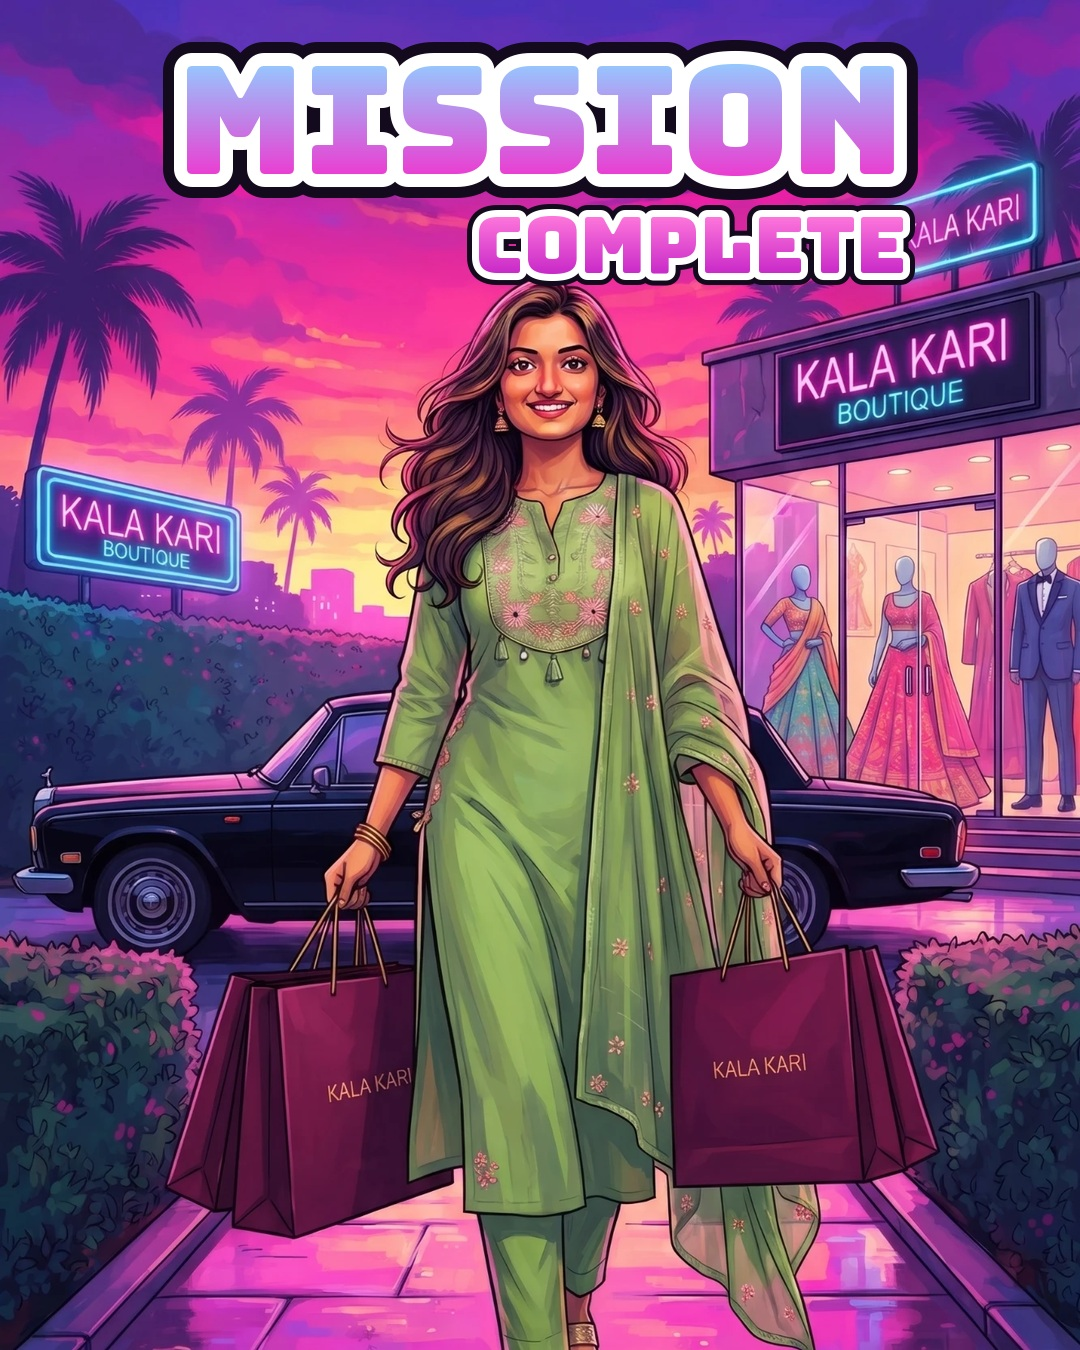
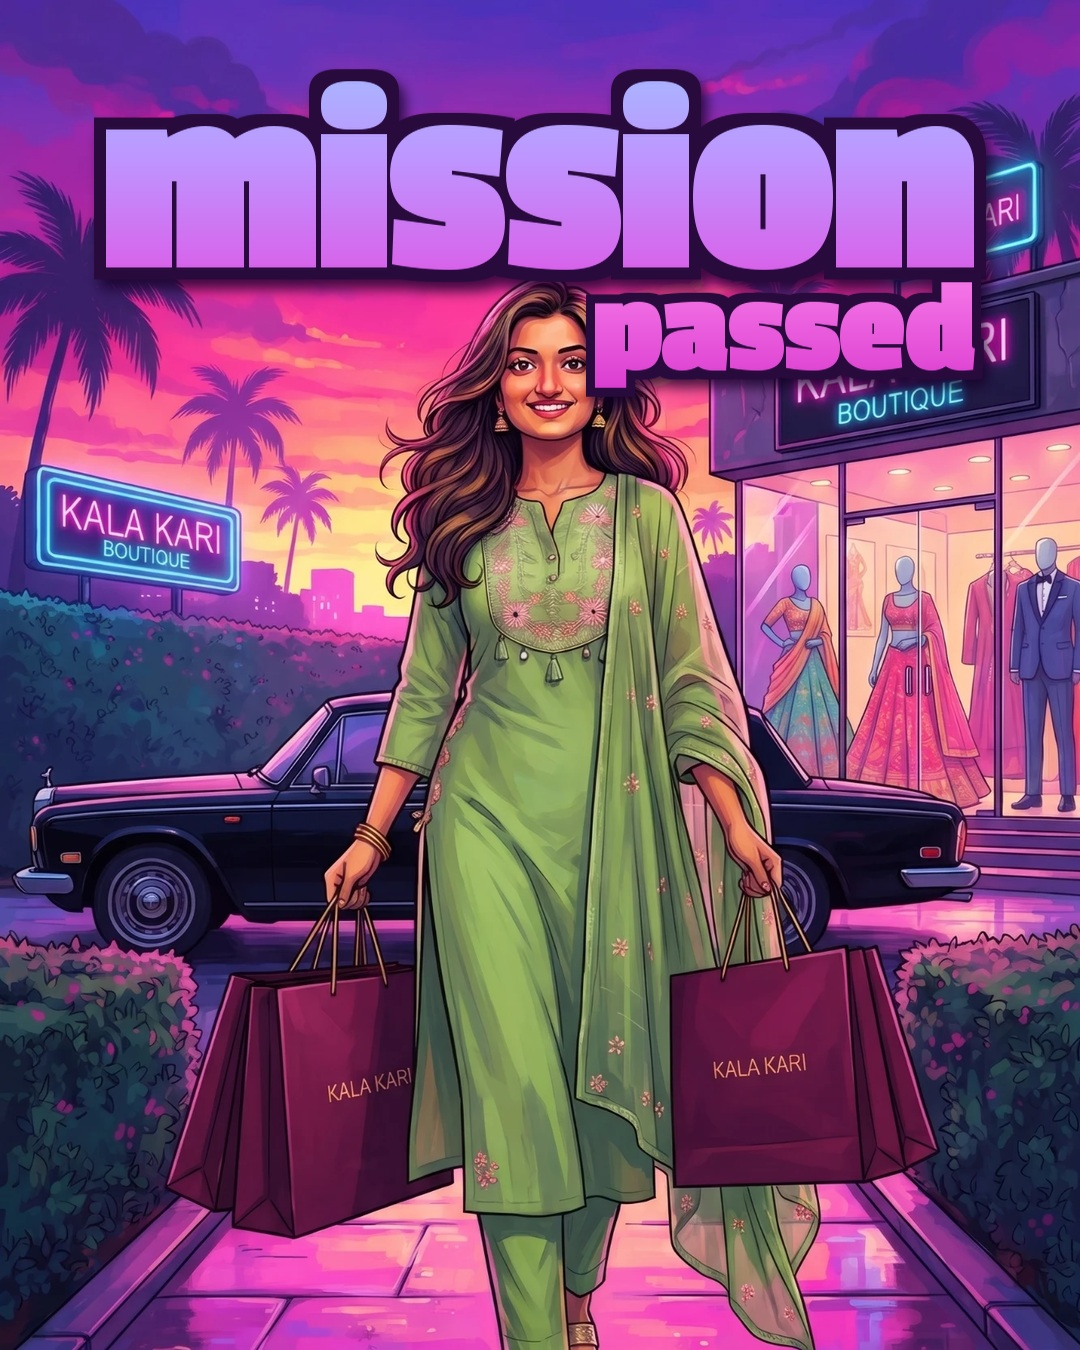
Most Wanted Fits: rebuild cover and slide 4 to match the reference's type and layout
Claude-Session: https://claude.ai/code/session_01LZv7UTnsZcwjx4RXmrtg3u

Changed region(s): [[0.0611, 0.0311, 0.9472, 0.3111]]

diff --git a/marketing/posts/most_wanted_fits_carousel.py b/marketing/posts/most_wanted_fits_carousel.py
@@ -1,9 +1,11 @@
 #!/usr/bin/env python3
 """4-slide 4:5 "Most Wanted Fits" carousel: neon-sunset, game-cover style illustrations of three looks.
 
-1. Cover: the three illustrations as diagonal panels split by black bars, with a sunset badge in the middle and a
-   chunky white "MOST WANTED FITS" title outlined in black and hot pink. (An original title treatment: no game logo.)
-2. Denim Paisley co-ord.  3. Folk-Art Mustard co-ord.  4. Green Jaipuri suit with "MISSION COMPLETE" at the top.
+1. Cover: five diagonal panels cut from the illustrations, split by thick black borders; a sunset-filled "KK"
+   monogram badge; and "most / wanted / fits" stacked in a heavy condensed lowercase face, white with a black
+   outline and a red-pink rim.
+2. Denim Paisley co-ord.  3. Folk-Art Mustard co-ord.
+4. Green Jaipuri suit with "mission" (blue-violet-magenta gradient) and a smaller "passed" under it on the right.
 The Gemini sparkle mark in each illustration's bottom-right corner is inpainted out.
 
 Usage:
@@ -43,74 +45,122 @@ def fit(im, w, h, fy=0.5):
     return im.crop((x, y, x + w, y + h))
 
 
-def outlined(lay, xy, text, size, fill=(255, 255, 255), inner=(15, 10, 20), outer=PINK, anchor="mm", grad=None):
-    """Chunky title text: a hot-pink outer stroke, a black inner stroke, a white or gradient face."""
-    f = ImageFont.truetype(BUNGEE, size)
-    d = ImageDraw.Draw(lay)
-    d.text(xy, text, font=f, fill=outer + (255,), anchor=anchor, stroke_width=int(size * 0.16), stroke_fill=outer + (255,))
-    d.text(xy, text, font=f, fill=inner + (255,), anchor=anchor, stroke_width=int(size * 0.09), stroke_fill=inner + (255,))
-    if grad is None:
-        d.text(xy, text, font=f, fill=fill + (255,), anchor=anchor)
-        return
-    # gradient face: draw the glyphs as a mask and fill it with a vertical gradient
-    m = Image.new("L", lay.size, 0)
-    ImageDraw.Draw(m).text(xy, text, font=f, fill=255, anchor=anchor)
-    bb = m.getbbox()
-    g = Image.new("RGBA", lay.size, (0, 0, 0, 0))
-    gd = ImageDraw.Draw(g)
-    for y in range(bb[1], bb[3] + 1):
-        t = (y - bb[1]) / max(1, bb[3] - bb[1])
-        c = tuple(int(grad[0][k] * (1 - t) + grad[1][k] * t) for k in range(3))
-        gd.line([(bb[0], y), (bb[2], y)], fill=c + (255,))
-    lay.paste(g, (0, 0), m)
+PASSION = os.path.join(FONTS, "fontsource-passion-one", "package", "files", "passion-one-latin-900-normal.woff2")
+
+
+def word_layer(text, size, stretch=1.18):
+    """A word in the heavy condensed display face, stretched taller like the reference's title type.
+    Returns (glyph mask, offset) on a padded canvas."""
+    f = ImageFont.truetype(PASSION, size)
+    bb = f.getbbox(text)
+    pad = int(size * 0.3)
+    m = Image.new("L", (bb[2] - bb[0] + 2 * pad, bb[3] - bb[1] + 2 * pad), 0)
+    ImageDraw.Draw(m).text((pad - bb[0], pad - bb[1]), text, font=f, fill=255)
+    return m.resize((m.width, int(m.height * stretch)), Image.LANCZOS)
+
+
+def stroke(mask, px):
+    return mask.filter(ImageFilter.MaxFilter(px * 2 + 1)) if px > 0 else mask
+
+
+def stamp(canvas, mask, cx, cy, face, rims, shadow=(0, 0, 0, 150), shadow_off=(8, 12)):
+    """Composite a word: drop shadow, then rims (outermost first), then the face (a colour or an RGBA image)."""
+    x, y = int(cx - mask.width / 2), int(cy - mask.height / 2)
+    outer = stroke(mask, rims[0][1])
+    sh = Image.new("RGBA", mask.size, shadow)
+    sh.putalpha(outer.filter(ImageFilter.GaussianBlur(6)).point(lambda v: int(v * shadow[3] / 255)))
+    canvas.alpha_composite(sh, (x + shadow_off[0], y + shadow_off[1]))
+    for col, px in rims:
+        lay = Image.new("RGBA", mask.size, col + (255,))
+        lay.putalpha(stroke(mask, px))
+        canvas.alpha_composite(lay, (x, y))
+    if isinstance(face, Image.Image):
+        lay = face.resize(mask.size).convert("RGBA")
+    else:
+        lay = Image.new("RGBA", mask.size, face + (255,))
+    lay.putalpha(mask)
+    canvas.alpha_composite(lay, (x, y))
+
+
+def vgrad(size, stops):
+    w, h = size
+    t = np.linspace(0, 1, h)[:, None]
+    pos = np.array([p for p, _ in stops])
+    cols = np.array([c for _, c in stops], float)
+    out = np.stack([np.interp(t[:, 0], pos, cols[:, k]) for k in range(3)], -1)
+    return Image.fromarray(np.repeat(out[:, None, :], w, 1).astype(np.uint8))
+
+
+def sunset_scene(w, h):
+    """Sunset fill for the badge letters: gradient sky, a striped sun, a skyline and palm silhouettes."""
+    im = vgrad((w, h), [(0, (255, 70, 150)), (0.45, (255, 120, 90)), (0.75, (255, 190, 80)), (1, (255, 225, 120))])
+    d = ImageDraw.Draw(im)
+    r = w * 0.2
+    d.ellipse((w / 2 - r, h * 0.42 - r, w / 2 + r, h * 0.42 + r), fill=(255, 225, 110))
+    for k in range(5):
+        y = h * 0.47 + k * h * 0.045
+        d.rectangle((0, y, w, y + 3 + k * 2), fill=(255, 110, 120))
+    rng = np.random.default_rng(4)
+    x = 0
+    while x < w:                                       # skyline
+        bw, bh = rng.uniform(w * 0.03, w * 0.06), rng.uniform(h * 0.05, h * 0.16)
+        d.rectangle((x, h * 0.84 - bh, x + bw, h), fill=(150, 40, 110))
+        x += bw * rng.uniform(0.8, 1.2)
+    d.rectangle((0, h * 0.84, w, h), fill=(110, 30, 90))
+    for px, ph, lean in ((w * 0.12, h * 0.72, 0.06), (w * 0.88, h * 0.75, -0.06), (w * 0.36, h * 0.5, 0.04), (w * 0.64, h * 0.55, -0.04)):
+        base = (px, h)
+        top = (px + lean * w, h - ph)
+        d.line([base, top], fill=(60, 15, 60), width=max(4, int(w * 0.012)))
+        L = w * 0.15
+        # tapered fronds fanning out to the sides and drooping under their own weight
+        for vx, vy in ((-1, -0.45), (-1, 0.05), (-0.45, -0.9), (1, -0.45), (1, 0.05), (0.45, -0.9), (0.05, -1)):
+            n = math.hypot(vx, vy)
+            vx, vy = vx / n, vy / n
+            spine = [(top[0] + vx * L * t, top[1] + vy * L * t + L * 0.6 * t * t) for t in np.linspace(0, 1, 14)]
+            left, right = [], []
+            for j, (x, y) in enumerate(spine):
+                t = j / 13
+                wdt = L * 0.11 * math.sin(math.pi * min(1, t * 1.1)) + 1
+                nx, ny = -vy, vx
+                left.append((x + nx * wdt, y + ny * wdt))
+                right.append((x - nx * wdt, y - ny * wdt))
+            d.polygon(left + right[::-1], fill=(60, 15, 60))
+    return im
 
 
 def cover(den, mus, grn):
-    im = Image.new("RGB", (W, H), (10, 8, 14))
-    # three panels split by diagonal lines: top-left (denim), right (green), bottom-left (mustard). Each
-    # illustration is scaled and shifted so its figure sits in its panel: (image, scale, dx, dy, polygon)
+    im = fit(grn, W, H)
+    # panels in paint order: (image, scale, dx, dy, polygon); each image is placed so its subject sits in its panel
     panels = [
-        (den, 0.80, -520, -150, [(0, 0), (720, 0), (330, H * 0.62), (0, H * 0.70)]),
-        (grn, 0.70, 380, -10, [(720, 0), (W, 0), (W, H), (560, H), (330, H * 0.62)]),
-        (mus, 0.62, -380, 830, [(0, H * 0.70), (330, H * 0.62), (560, H), (0, H)]),
+        (grn, 0.72, 400, 150, [(432, 520), (1080, 380), (1080, 1350), (700, 1350), (560, 900)]),
+        (den, 0.75, -520, -150, [(0, 0), (640, 0), (432, 520), (300, 860), (0, 760)]),
+        (mus, 0.60, 230, -70, [(640, 0), (1080, 0), (1080, 380), (432, 520)]),
+        (den, 0.70, -990, 235, [(0, 760), (300, 860), (430, 1350), (0, 1350)]),
+        (mus, 0.70, 470, 700, [(300, 860), (560, 900), (700, 1350), (430, 1350)]),
     ]
+    edges = []
     for src, sc, dx, dy, poly in panels:
         big = src.resize((round(src.width * sc), round(src.height * sc)), Image.LANCZOS)
-        layer = fit(src, W, H)                    # filler behind, in case the scaled image doesn't cover the panel
+        layer = fit(src, W, H)
         layer.paste(big, (dx, dy))
         m = Image.new("L", (W, H), 0)
         ImageDraw.Draw(m).polygon(poly, fill=255)
         im.paste(layer, (0, 0), m)
+        edges.append(poly)
     d = ImageDraw.Draw(im)
-    for a, b in (((720, 0), (330, H * 0.62)), ((330, H * 0.62), (0, H * 0.70)), ((330, H * 0.62), (560, H))):
-        d.line([a, b], fill=(10, 8, 14), width=16)
-    # the sunset badge behind the title: a slanted shield with a sun, stripes and palms
-    lay = Image.new("RGBA", (W, H), (0, 0, 0, 0))
-    bx0, by0, bx1, by1 = 250, 430, 830, 960
-    badge = Image.new("RGBA", (W, H), (0, 0, 0, 0))
-    bd = ImageDraw.Draw(badge)
-    for y in range(by0, by1):
-        t = (y - by0) / (by1 - by0)
-        c = (int(250 - 40 * t), int(80 + 110 * t), int(150 - 100 * t))
-        bd.line([(bx0, y), (bx1, y)], fill=c + (255,))
-    bd.ellipse((W / 2 - 150, by0 + 40, W / 2 + 150, by0 + 340), fill=(255, 214, 90, 255))
-    for k in range(5):
-        y = by0 + 220 + k * 22
-        bd.rectangle((bx0, y, bx1, y + 8 + k), fill=(236, 90, 130, 255))
-    shield = Image.new("L", (W, H), 0)
-    ImageDraw.Draw(shield).polygon([(bx0 + 30, by0), (bx1, by0 - 20), (bx1 - 30, by1), (bx0, by1 + 20)], fill=255)
-    stroke = shield.filter(ImageFilter.MaxFilter(25))
-    lay.paste(Image.new("RGBA", (W, H), (10, 8, 14, 255)), (0, 0), stroke)
-    lay.paste(badge, (0, 0), shield)
+    on_edge = lambda p: p[0] in (0, W) or p[1] in (0, H)
+    for poly in edges:                                # thick black borders between panels (not round the slide)
+        for a, b in zip(poly, poly[1:] + poly[:1]):
+            if not (on_edge(a) and on_edge(b)):
+                d.line([a, b], fill=(8, 6, 10), width=18)
     im = im.convert("RGBA")
-    im.alpha_composite(lay)
-    t = Image.new("RGBA", (W, H), (0, 0, 0, 0))
-    for word, y, s in (("MOST", 560, 150), ("WANTED", 700, 132), ("FITS", 840, 150)):
-        outlined(t, (W / 2, y), word, s)
-    sh = Image.new("RGBA", (W, H), (0, 0, 0, 0))
-    sh.putalpha(t.getchannel("A").filter(ImageFilter.GaussianBlur(10)).point(lambda v: int(v * 0.6)))
-    im.alpha_composite(sh, (6, 10))
-    im.alpha_composite(t)
+    # the badge: our KK monogram letters filled with a sunset scene, outlined in black and hot pink
+    kk = word_layer("KK", 470, 1.12)
+    scene = sunset_scene(kk.width, kk.height)
+    stamp(im, kk, W / 2, 445, scene, [((232, 40, 110), 16), ((8, 6, 10), 11)])
+    # title: white, black outline, a thin red-pink rim, stacked and overlapping like the reference
+    for text, size, cy in (("most", 205, 660), ("wanted", 205, 810), ("fits", 205, 960)):
+        stamp(im, word_layer(text, size), W / 2, cy, (255, 255, 255), [((226, 34, 74), 17), ((8, 6, 10), 12)])
     return im.convert("RGB")
 
 
@@ -124,12 +174,13 @@ def main():
     fit(den, W, H).save(os.path.join(out, "slide-2.jpg"), quality=94)
     fit(mus, W, H).save(os.path.join(out, "slide-3.jpg"), quality=94)
     s4 = fit(grn, W, H, 0.07).convert("RGBA")
-    t = Image.new("RGBA", (W, H), (0, 0, 0, 0))
-    outlined(t, (W / 2, 120), "MISSION", 150, grad=((150, 200, 255), (236, 60, 210)), outer=(20, 10, 30),
-             inner=(255, 255, 255))
-    outlined(t, (W / 2 + 150, 245), "COMPLETE", 78, grad=((255, 120, 220), (200, 40, 200)), outer=(20, 10, 30),
-             inner=(255, 255, 255))
-    s4.alpha_composite(t)
+    m1 = word_layer("mission", 250, 1.15)
+    stamp(s4, m1, W / 2, 175, vgrad(m1.size, [(0, (150, 210, 255)), (0.45, (190, 150, 255)), (1, (236, 60, 220))]),
+          [((40, 10, 60), 12)], shadow=(20, 0, 40, 200), shadow_off=(6, 10))
+    m2 = word_layer("passed", 120, 1.15)
+    stamp(s4, m2, W / 2 + m1.width / 2 - m2.width / 2 - 40, 335,
+          vgrad(m2.size, [(0, (255, 140, 240)), (1, (210, 40, 200))]), [((40, 10, 60), 9)],
+          shadow=(20, 0, 40, 200), shadow_off=(5, 8))
     s4.convert("RGB").save(os.path.join(out, "slide-4.jpg"), quality=94)
     print(out)
 
